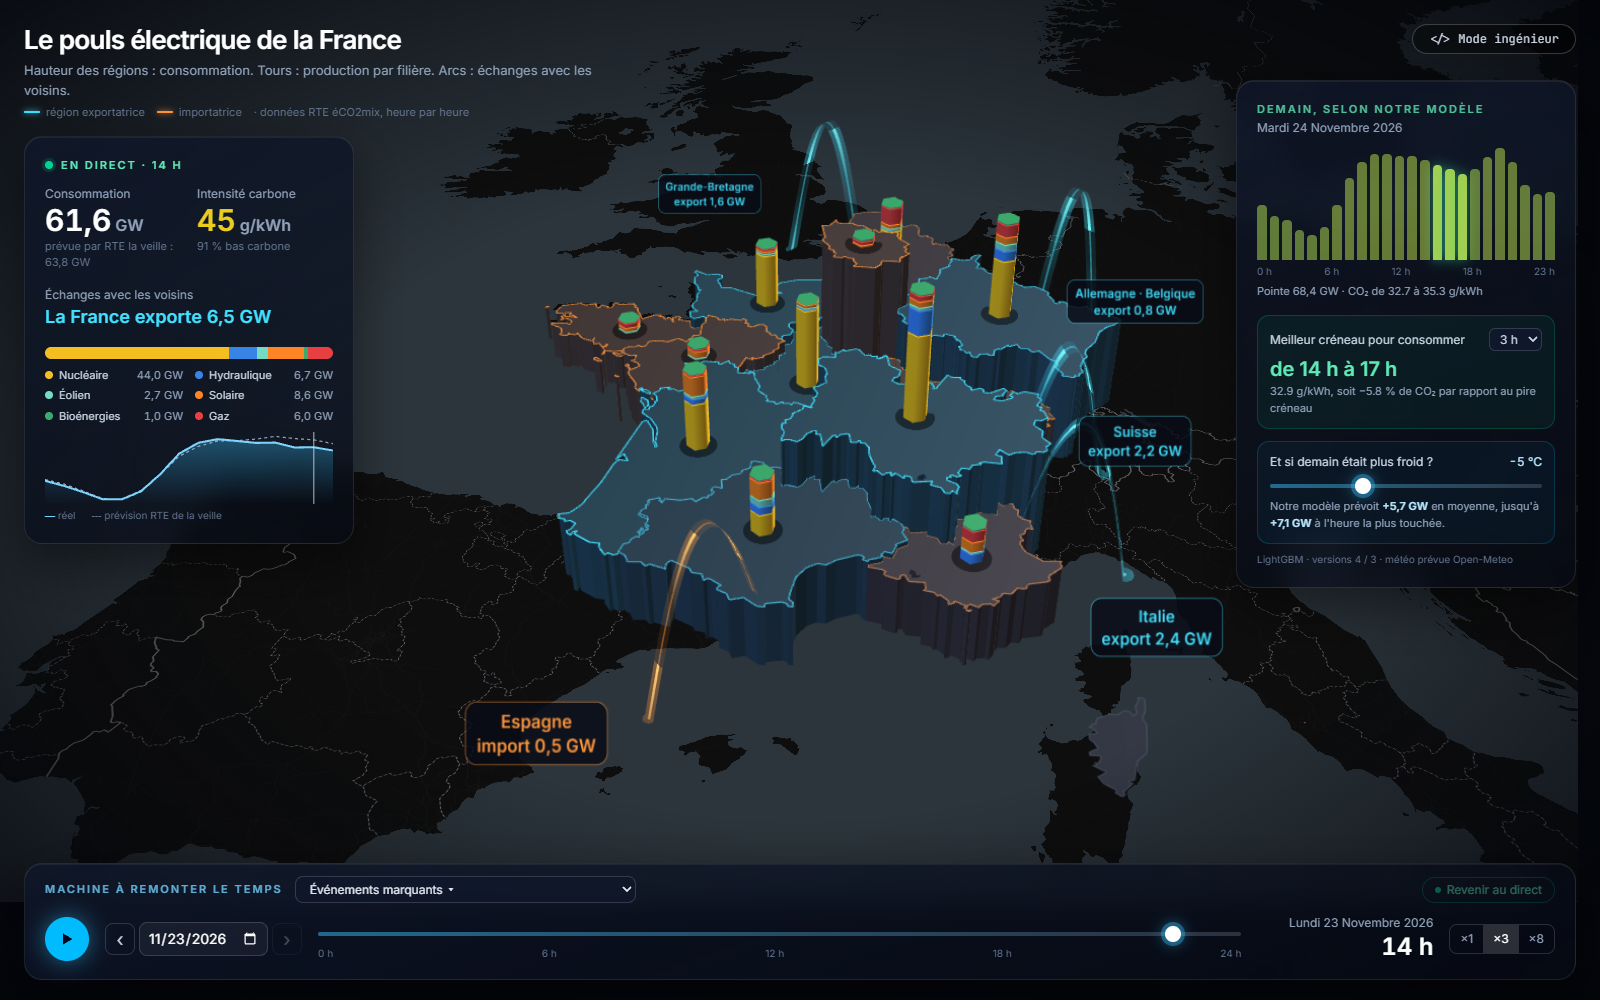
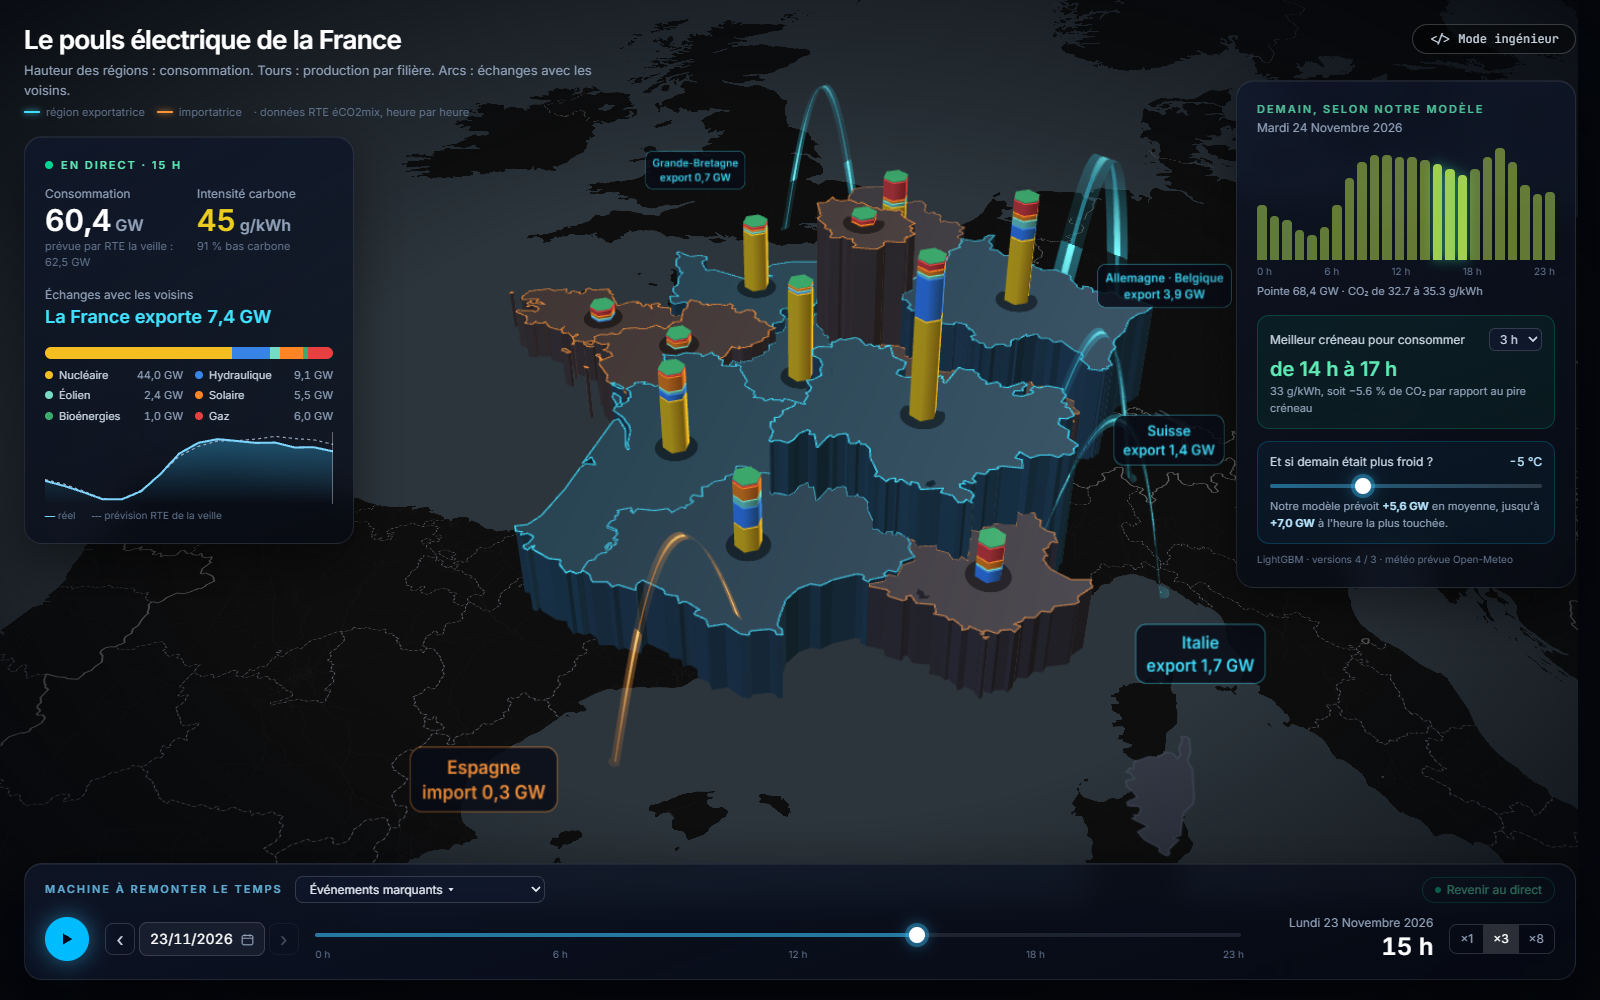
Carte 3D : frise sur 24 h, date au format français, menu compact, cadrage rapproché
- Le curseur se place sur une journée entière (0 h → 23 h), la part pas encore
  publiée est éteinte
- Date affichée en jj/mm/aaaa (le champ natif suit la langue du navigateur),
  calendrier natif ouvert au clic
- Menu des événements à largeur fixe, caméra rapprochée d'environ 12 %

diff --git a/web/components/Frise.tsx b/web/components/Frise.tsx
@@ -1,5 +1,6 @@
 "use client";
 
+import { useRef } from "react";
 import type { Journee } from "@/lib/api";
 import { heureTexte, jourTexte } from "@/lib/visuel";
 
@@ -26,7 +27,10 @@ function decaler(jour: string, n: number) {
 }
 
 export default function Frise({ jour, periode, heures, i, lecture, vitesse, journees, onJour, onI, onLecture, onVitesse, direct, onDirect }: Props) {
-  const max = Math.max(0, heures.length - 1);
+  // Échelle fixe d'une journée (0 h → 23 h) : le curseur indique l'heure, pas la part de la journée déjà publiée.
+  const max = Math.max(23, heures.length - 1);
+  const dispo = Math.max(0, heures.length - 1);
+  const calendrier = useRef<HTMLInputElement>(null);
   return (
     <div className="panneau pointer-events-auto w-full px-5 pt-3 pb-4">
       <div className="mb-3 flex items-center gap-3">
@@ -34,7 +38,7 @@ export default function Frise({ jour, periode, heures, i, lecture, vitesse, jour
         <select
           value={journees.find((j) => j.date === jour)?.date ?? ""}
           onChange={(e) => e.target.value && onJour(e.target.value)}
-          className="rounded-lg border border-white/15 bg-slate-900/80 px-2.5 py-1 text-xs text-slate-200 hover:border-white/35"
+          className="w-[250px] truncate rounded-lg border border-white/15 bg-slate-900/80 px-2.5 py-1 text-xs text-slate-200 hover:border-white/35"
           aria-label="Événements marquants"
         >
           <option value="">Événements marquants ▾</option>
@@ -66,14 +70,28 @@ export default function Frise({ jour, periode, heures, i, lecture, vitesse, jour
 
         <div className="flex shrink-0 items-center gap-1">
           <button onClick={() => onJour(decaler(jour, -1))} disabled={!!periode && jour <= periode.debut} className="bouton-jour" aria-label="Jour précédent">‹</button>
-          <input
-            type="date"
-            value={jour}
-            min={periode?.debut}
-            max={periode?.fin}
-            onChange={(e) => e.target.value && onJour(e.target.value)}
-            className="rounded-lg border border-white/15 bg-white/5 px-2 py-1.5 text-sm text-white [color-scheme:dark]"
-          />
+          {/* le champ date natif suit la langue du navigateur : on affiche nous-mêmes jj/mm/aaaa et on ouvre son calendrier */}
+          <div className="relative">
+            <button
+              onClick={() => calendrier.current?.showPicker()}
+              className="flex items-center gap-2 rounded-lg border border-white/15 bg-white/5 px-2.5 py-1.5 text-sm tabular-nums text-white hover:border-white/35"
+              aria-label="Choisir une date"
+            >
+              {jour.split("-").reverse().join("/")}
+              <svg width="13" height="13" viewBox="0 0 16 16" className="text-slate-400"><rect x="1.5" y="3" width="13" height="11.5" rx="2" fill="none" stroke="currentColor" strokeWidth="1.4" /><path d="M1.5 6.5h13M5 1.5v3M11 1.5v3" stroke="currentColor" strokeWidth="1.4" /></svg>
+            </button>
+            <input
+              ref={calendrier}
+              type="date"
+              value={jour}
+              min={periode?.debut}
+              max={periode?.fin}
+              onChange={(e) => e.target.value && onJour(e.target.value)}
+              tabIndex={-1}
+              aria-hidden
+              className="pointer-events-none absolute inset-0 opacity-0 [color-scheme:dark]"
+            />
+          </div>
           <button onClick={() => onJour(decaler(jour, 1))} disabled={!!periode && jour >= periode.fin} className="bouton-jour" aria-label="Jour suivant">›</button>
         </div>
 
@@ -83,13 +101,16 @@ export default function Frise({ jour, periode, heures, i, lecture, vitesse, jour
             min={0}
             max={max}
             value={Math.min(i, max)}
-            onChange={(e) => onI(Number(e.target.value))}
+            onChange={(e) => onI(Math.min(Number(e.target.value), dispo))}
             className="frise w-full"
+            // la partie de la journée pas encore publiée reste éteinte
+            style={{ background: `linear-gradient(90deg, rgba(56,189,248,0.6) ${(dispo / max) * 100}%, rgba(148,163,184,0.15) ${(dispo / max) * 100}%)` }}
             aria-label="Heure"
           />
-          <div className="mt-1 flex justify-between text-[10px] text-slate-500">
-            {[0, 6, 12, 18].map((h) => <span key={h}>{h} h</span>)}
-            <span>24 h</span>
+          <div className="relative mt-1 h-3 text-[10px] text-slate-500">
+            {[0, 6, 12, 18, 23].map((h) => (
+              <span key={h} className="absolute -translate-x-1/2 whitespace-nowrap" style={{ left: `calc(8px + (100% - 16px) * ${h / max})` }}>{h} h</span>
+            ))}
           </div>
         </div>
 

diff --git a/web/components/Carte.tsx b/web/components/Carte.tsx
@@ -15,7 +15,7 @@ import { arc, couleurSocle, couleurSolde, EXPORT, FILIERES, gw, IMPORT, INTERCON
 setWorkerUrl("/maplibre-gl-worker.mjs");
 
 const FOND = "https://basemaps.cartocdn.com/gl/dark-matter-nolabels-gl-style/style.json";
-const VUE_INITIALE: MapViewState = { longitude: 2.2, latitude: 45.6, zoom: 5.05, pitch: 52, bearing: -14 };
+const VUE_INITIALE: MapViewState = { longitude: 2.3, latitude: 45.75, zoom: 5.22, pitch: 52, bearing: -14 };
 
 // Lumière rasante venue du sud-ouest, comme un soleil de fin d'après-midi : les reliefs se lisent par leurs ombres.
 const LUMIERE = new LightingEffect({
